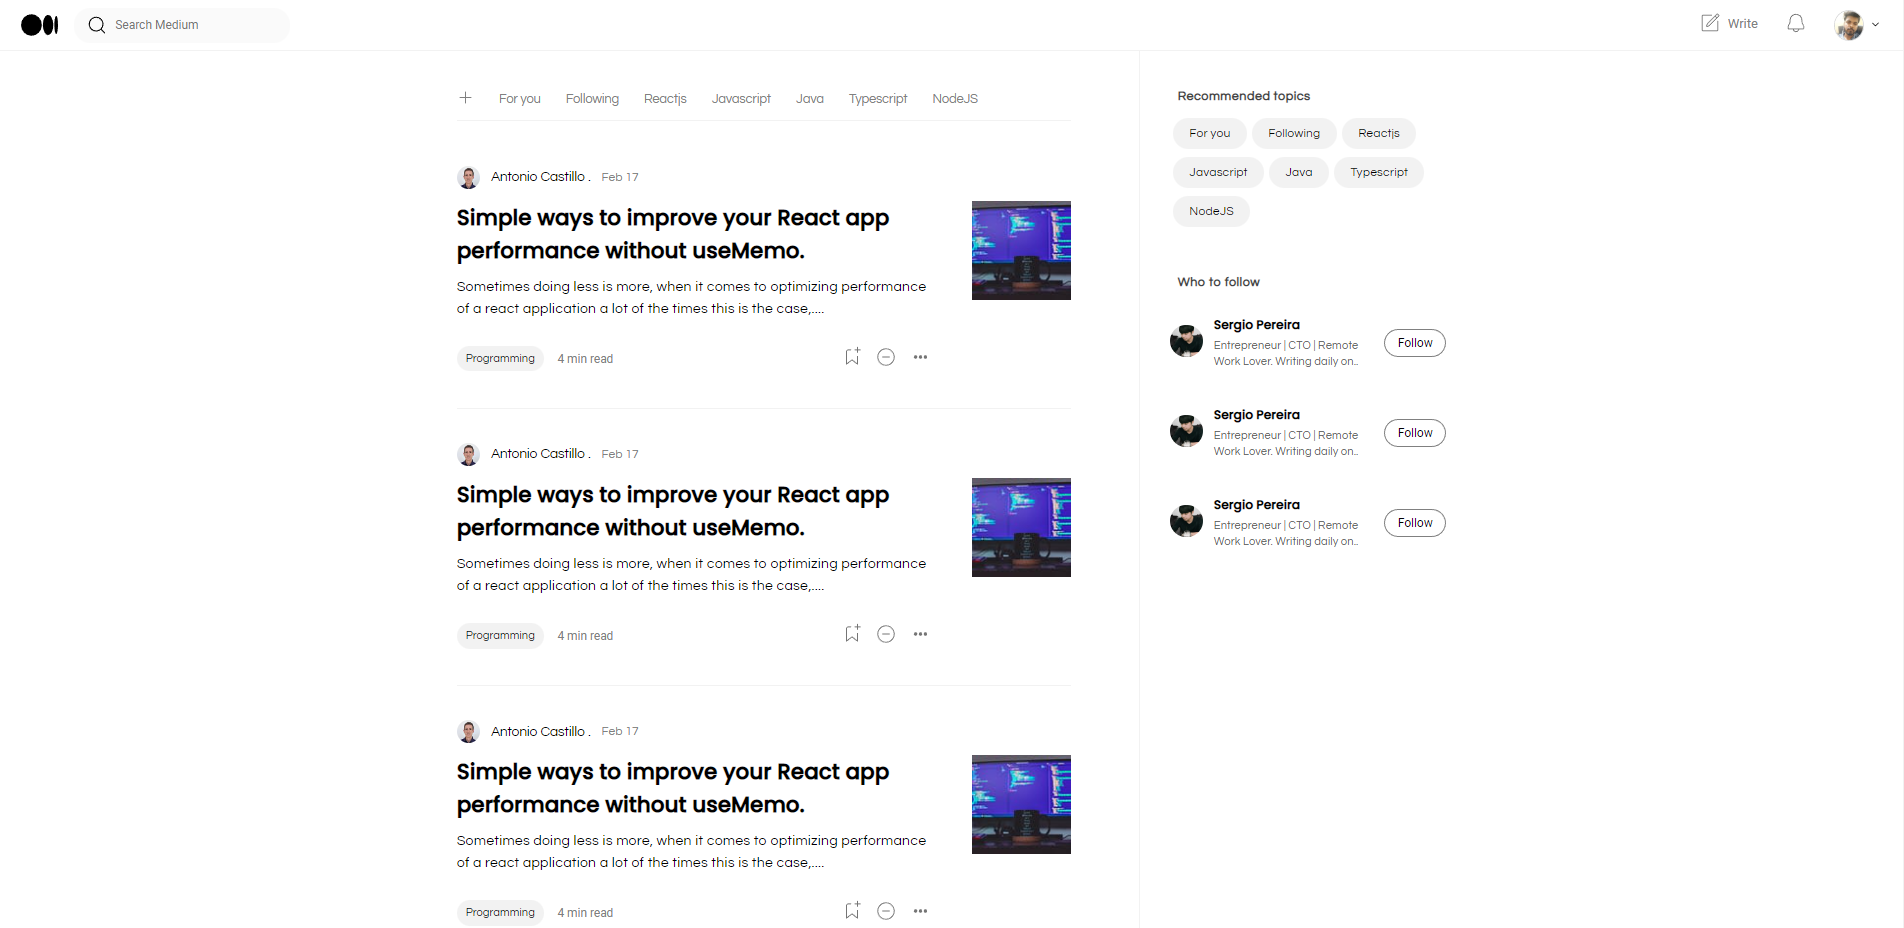
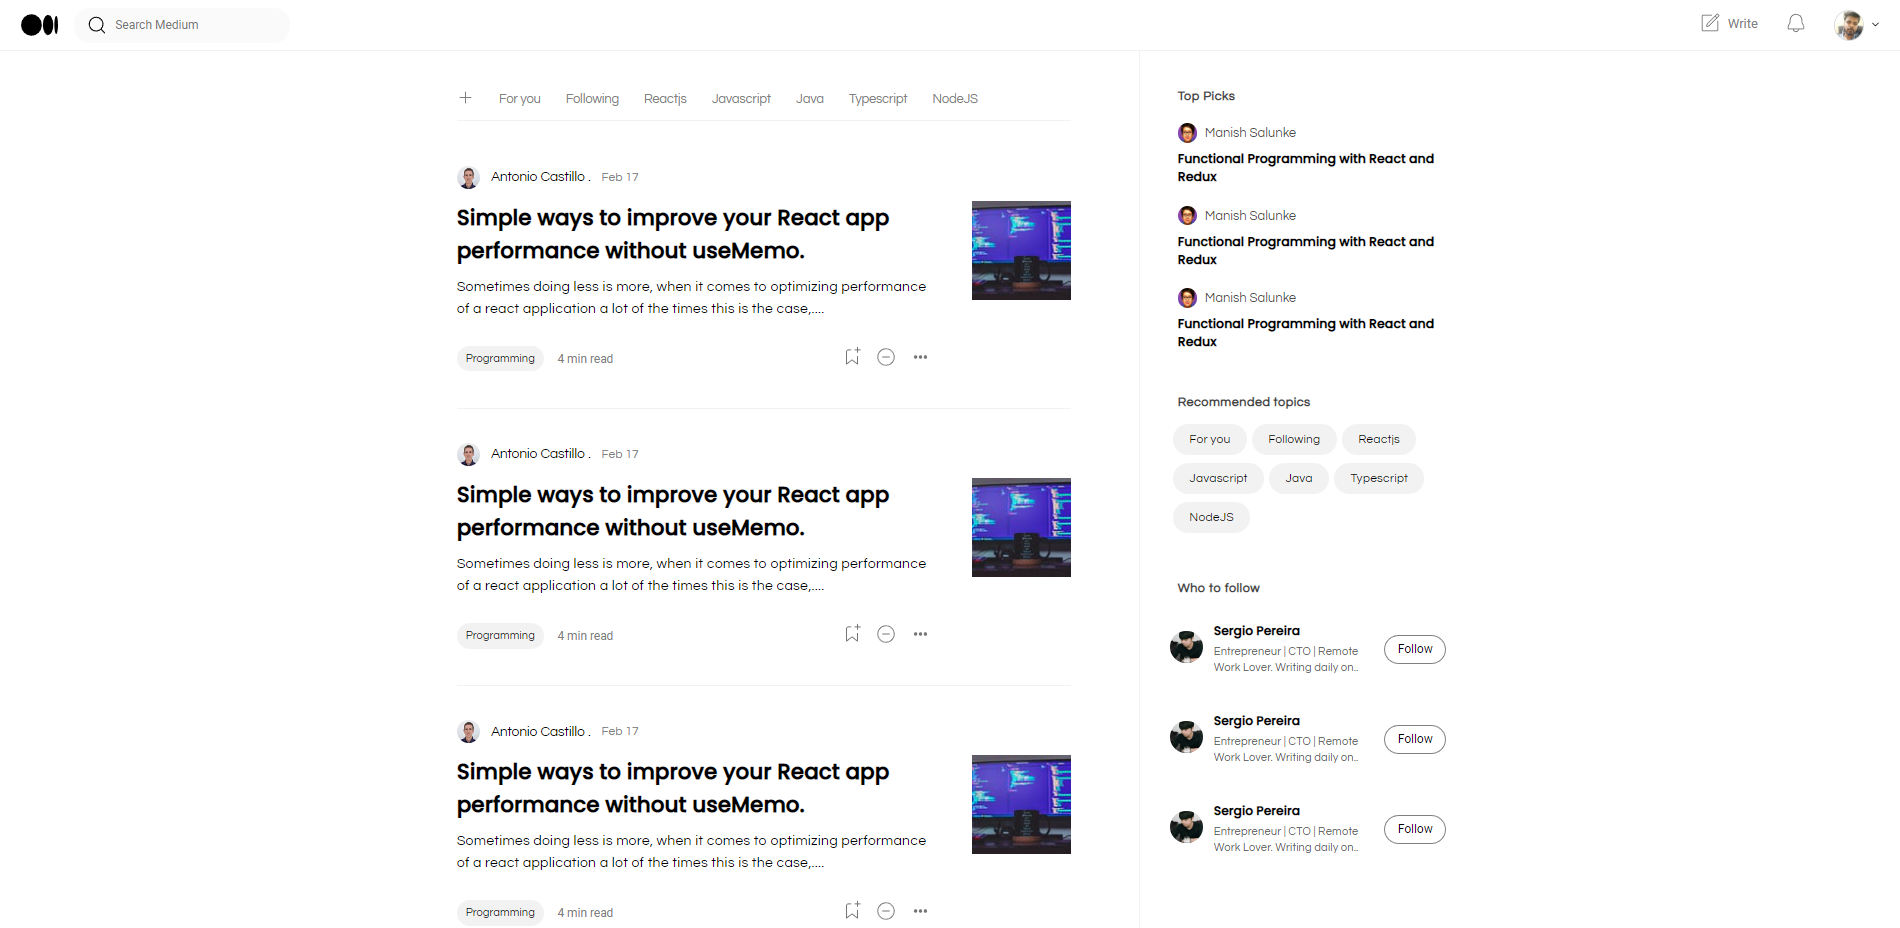
top story on homepage component

diff --git a/client/src/components/StoryCard.tsx b/client/src/components/StoryCard.tsx
@@ -1,0 +1,43 @@
+export default function StoryCard() {
+  return (
+    <div style={{ marginLeft: "8px" }}>
+      <div
+        className="firstLine"
+        style={{
+          display: "flex",
+          flexDirection: "row",
+          alignItems: "center",
+          gap: "8px",
+        }}
+      >
+        <img
+          style={{ width: "22px", borderRadius: "50%" }}
+          src="https://miro.medium.com/v2/resize:fill:176:176/1*o4o2K-ND_COV5CXRaNorig@2x.jpeg"
+          alt=""
+        />
+        <p
+          style={{
+            fontFamily: "Questrial",
+            fontSize: "14.5px",
+            fontWeight: "500",
+            color: "#514e4e",
+          }}
+        >
+          Manish Salunke
+        </p>
+      </div>
+      <div className="post_details">
+        <p
+          style={{
+            fontFamily: "Poppins",
+            fontWeight: "bolder",
+            fontSize: "14px",
+            marginTop: "8px",
+          }}
+        >
+          Functional Programming with React and Redux
+        </p>
+      </div>
+    </div>
+  );
+}

diff --git a/client/src/components/TopPicks.tsx b/client/src/components/TopPicks.tsx
@@ -1,0 +1,28 @@
+import StoryCard from "./StoryCard";
+
+export default function TopPicks() {
+  return (
+    <div style={{ width: "90%", marginLeft: "auto" }}>
+      <h5
+        style={{
+          color: "#434343",
+          fontFamily: "Questrial",
+          fontSize: "14px",
+          margin: "12px 8px",
+          letterSpacing: "0.55px",
+          marginBottom: "22px",
+        }}
+      >
+        Top Picks
+      </h5>
+      <div
+        className="story_top"
+        style={{ display: "flex", flexDirection: "column", gap: "22px" }}
+      >
+        <StoryCard />
+        <StoryCard />
+        <StoryCard />
+      </div>
+    </div>
+  );
+}

diff --git a/client/src/pages/Home.tsx b/client/src/pages/Home.tsx
@@ -1,6 +1,7 @@
 import Post from "../components/Post";
 import SuggestionBar from "../components/SuggestionBar";
 import Topics from "../components/Topics";
+import TopPicks from "../components/TopPicks";
 import WhoToFollow from "../components/WhoToFollow";
 
 export default function Home() {
@@ -40,6 +41,7 @@ export default function Home() {
           gap: "38px",
         }}
       >
+        <TopPicks />
         <Topics />
         <WhoToFollow />
       </div>
